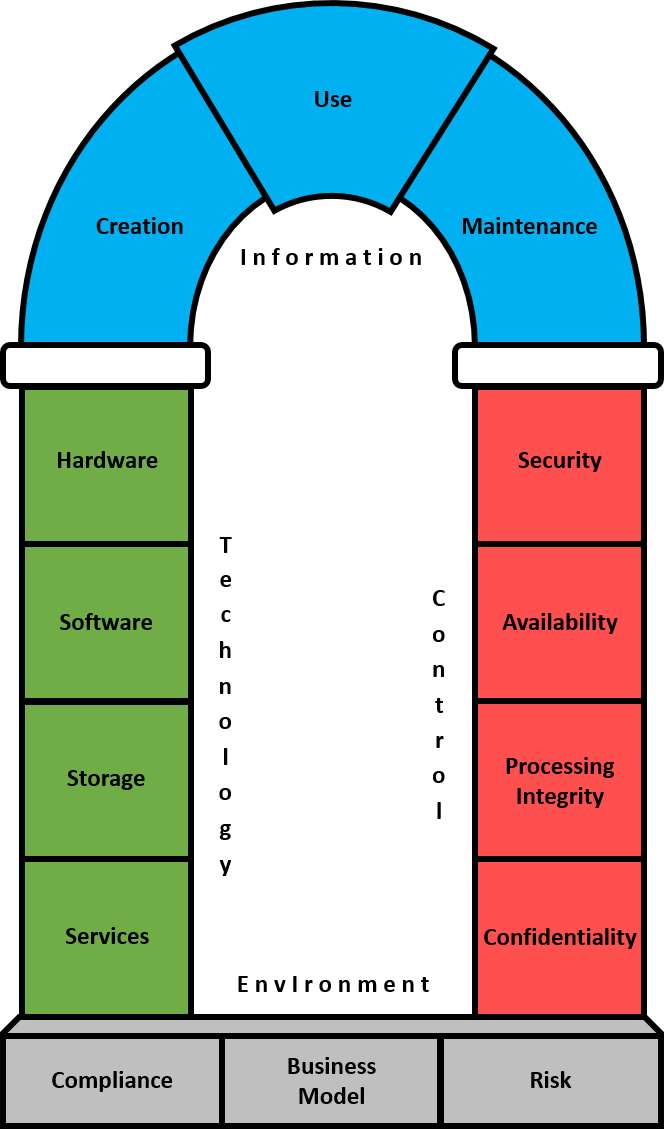
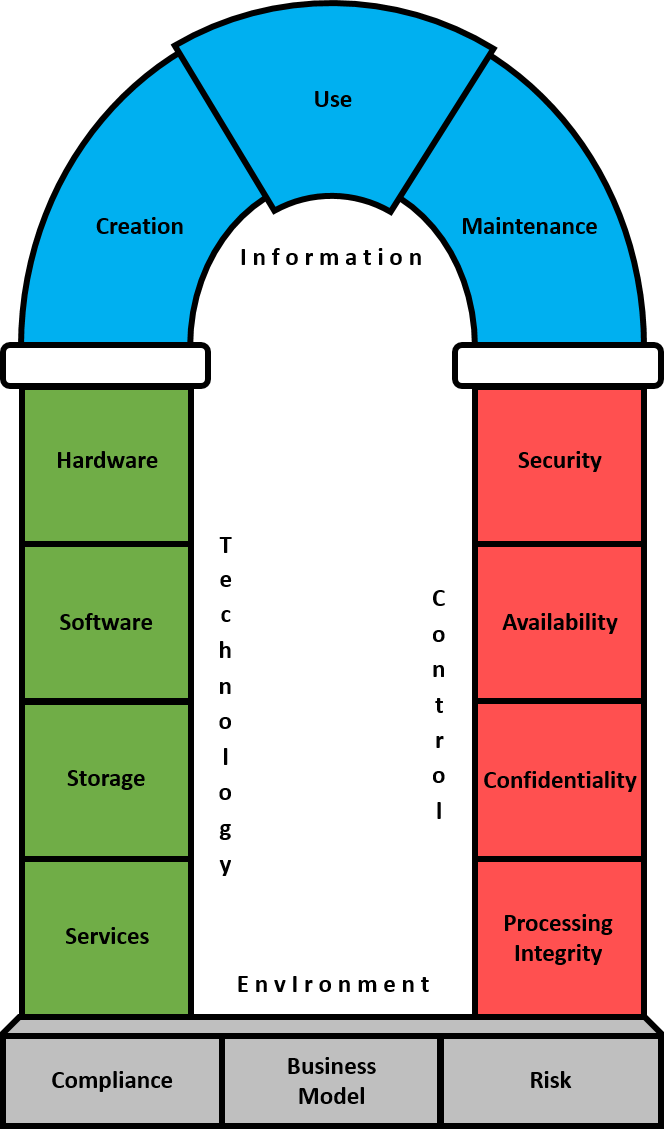
Swapped two arch blocks.

Changed region(s): [[0.7229, 0.651, 0.9639, 0.713], [0.7229, 0.806, 0.9639, 0.868]]

diff --git a/lectures/confidentiality.html b/lectures/confidentiality.html
@@ -32,7 +32,7 @@
       <div class="flex-row">
         <div class="flex-item override"><img src="../images/arch.png" alt="Accounting Architecture Model" style="max-width: 300px"/></div>
         <div class="flex-item" style="max-width: 65%">
-          <p>Confidentiality is the final Control block in the accounting architecture framework. Unlike to the other blocks in the Control section, Confidentiality comprises two related Trust Services Criteria with a single overarching goal: to prevent unauthorized access to secret information. Although unauthorized access is also the purview of the Security block, Confidentiality addresses risks and control activities that extend beyond what Security addresses.</p>
+          <p>Confidentiality is the third Control block in the accounting architecture framework. Unlike to the other blocks in the Control section, Confidentiality comprises two related Trust Services Criteria with a single overarching goal: to prevent unauthorized access to secret information. Although unauthorized access is also the purview of the Security block, Confidentiality addresses risks and control activities that extend beyond what Security addresses.</p>
         </div>
       </div>
     </section>

diff --git a/lectures/processing-integrity.html b/lectures/processing-integrity.html
@@ -32,7 +32,7 @@
       <div class="flex-row">
         <div class="flex-item override"><img src="../images/arch.png" alt="Accounting Architecture Model" style="max-width: 300px"/></div>
         <div class="flex-item" style="max-width: 65%">
-          <p>Processing integrity is the second block in the Control section. This block addresses the &ldquo;Garbage In; Garbage Out&rdquo; principle, which states that bad data will result in bad information. It is not sufficient for a system to be up and running, it must be able to preserve the data through the entire information or Big Data life cycle. Otherwise, users will either learn nothing from the data or worse, be misled by it.</p>
+          <p>Processing Integrity is the final block in the Control section. This block addresses the &ldquo;Garbage In; Garbage Out&rdquo; principle, which states that bad data will result in bad information. It is not sufficient for a system to be up and running, it must be able to preserve the data through the entire information or Big Data life cycle. Otherwise, users will either learn nothing from the data or worse, be misled by it.</p>
         </div>
       </div>
     </section>

diff --git a/lectures/accounting-architecture.html b/lectures/accounting-architecture.html
@@ -149,8 +149,8 @@
       <ol>
         <li><u><em>Security</em></u>: protecting against unauthorized access.</li>
         <li><u><em>Availability</em></u>: preventing data loss and system downtime.</li>
-        <li><u><em>Processing Integrity</em></u>: preventing data errors.</li>
         <li><u><em>Confidentiality</em></u>: safeguarding personal and corporate secrets.</li>
+        <li><u><em>Processing Integrity</em></u>: preventing data errors.</li>
       </ol>
       <p>These four blocks are the AICPA Trust Services Criteria. Although many other control frameworks exist, I have selected this because it focuses on data security (i.e., how the system is controlled). With the rise in cybersecurity threats, information security has become increasingly important, and accountants are particularly interested in compliance with good control practices.</p>
     </section>
